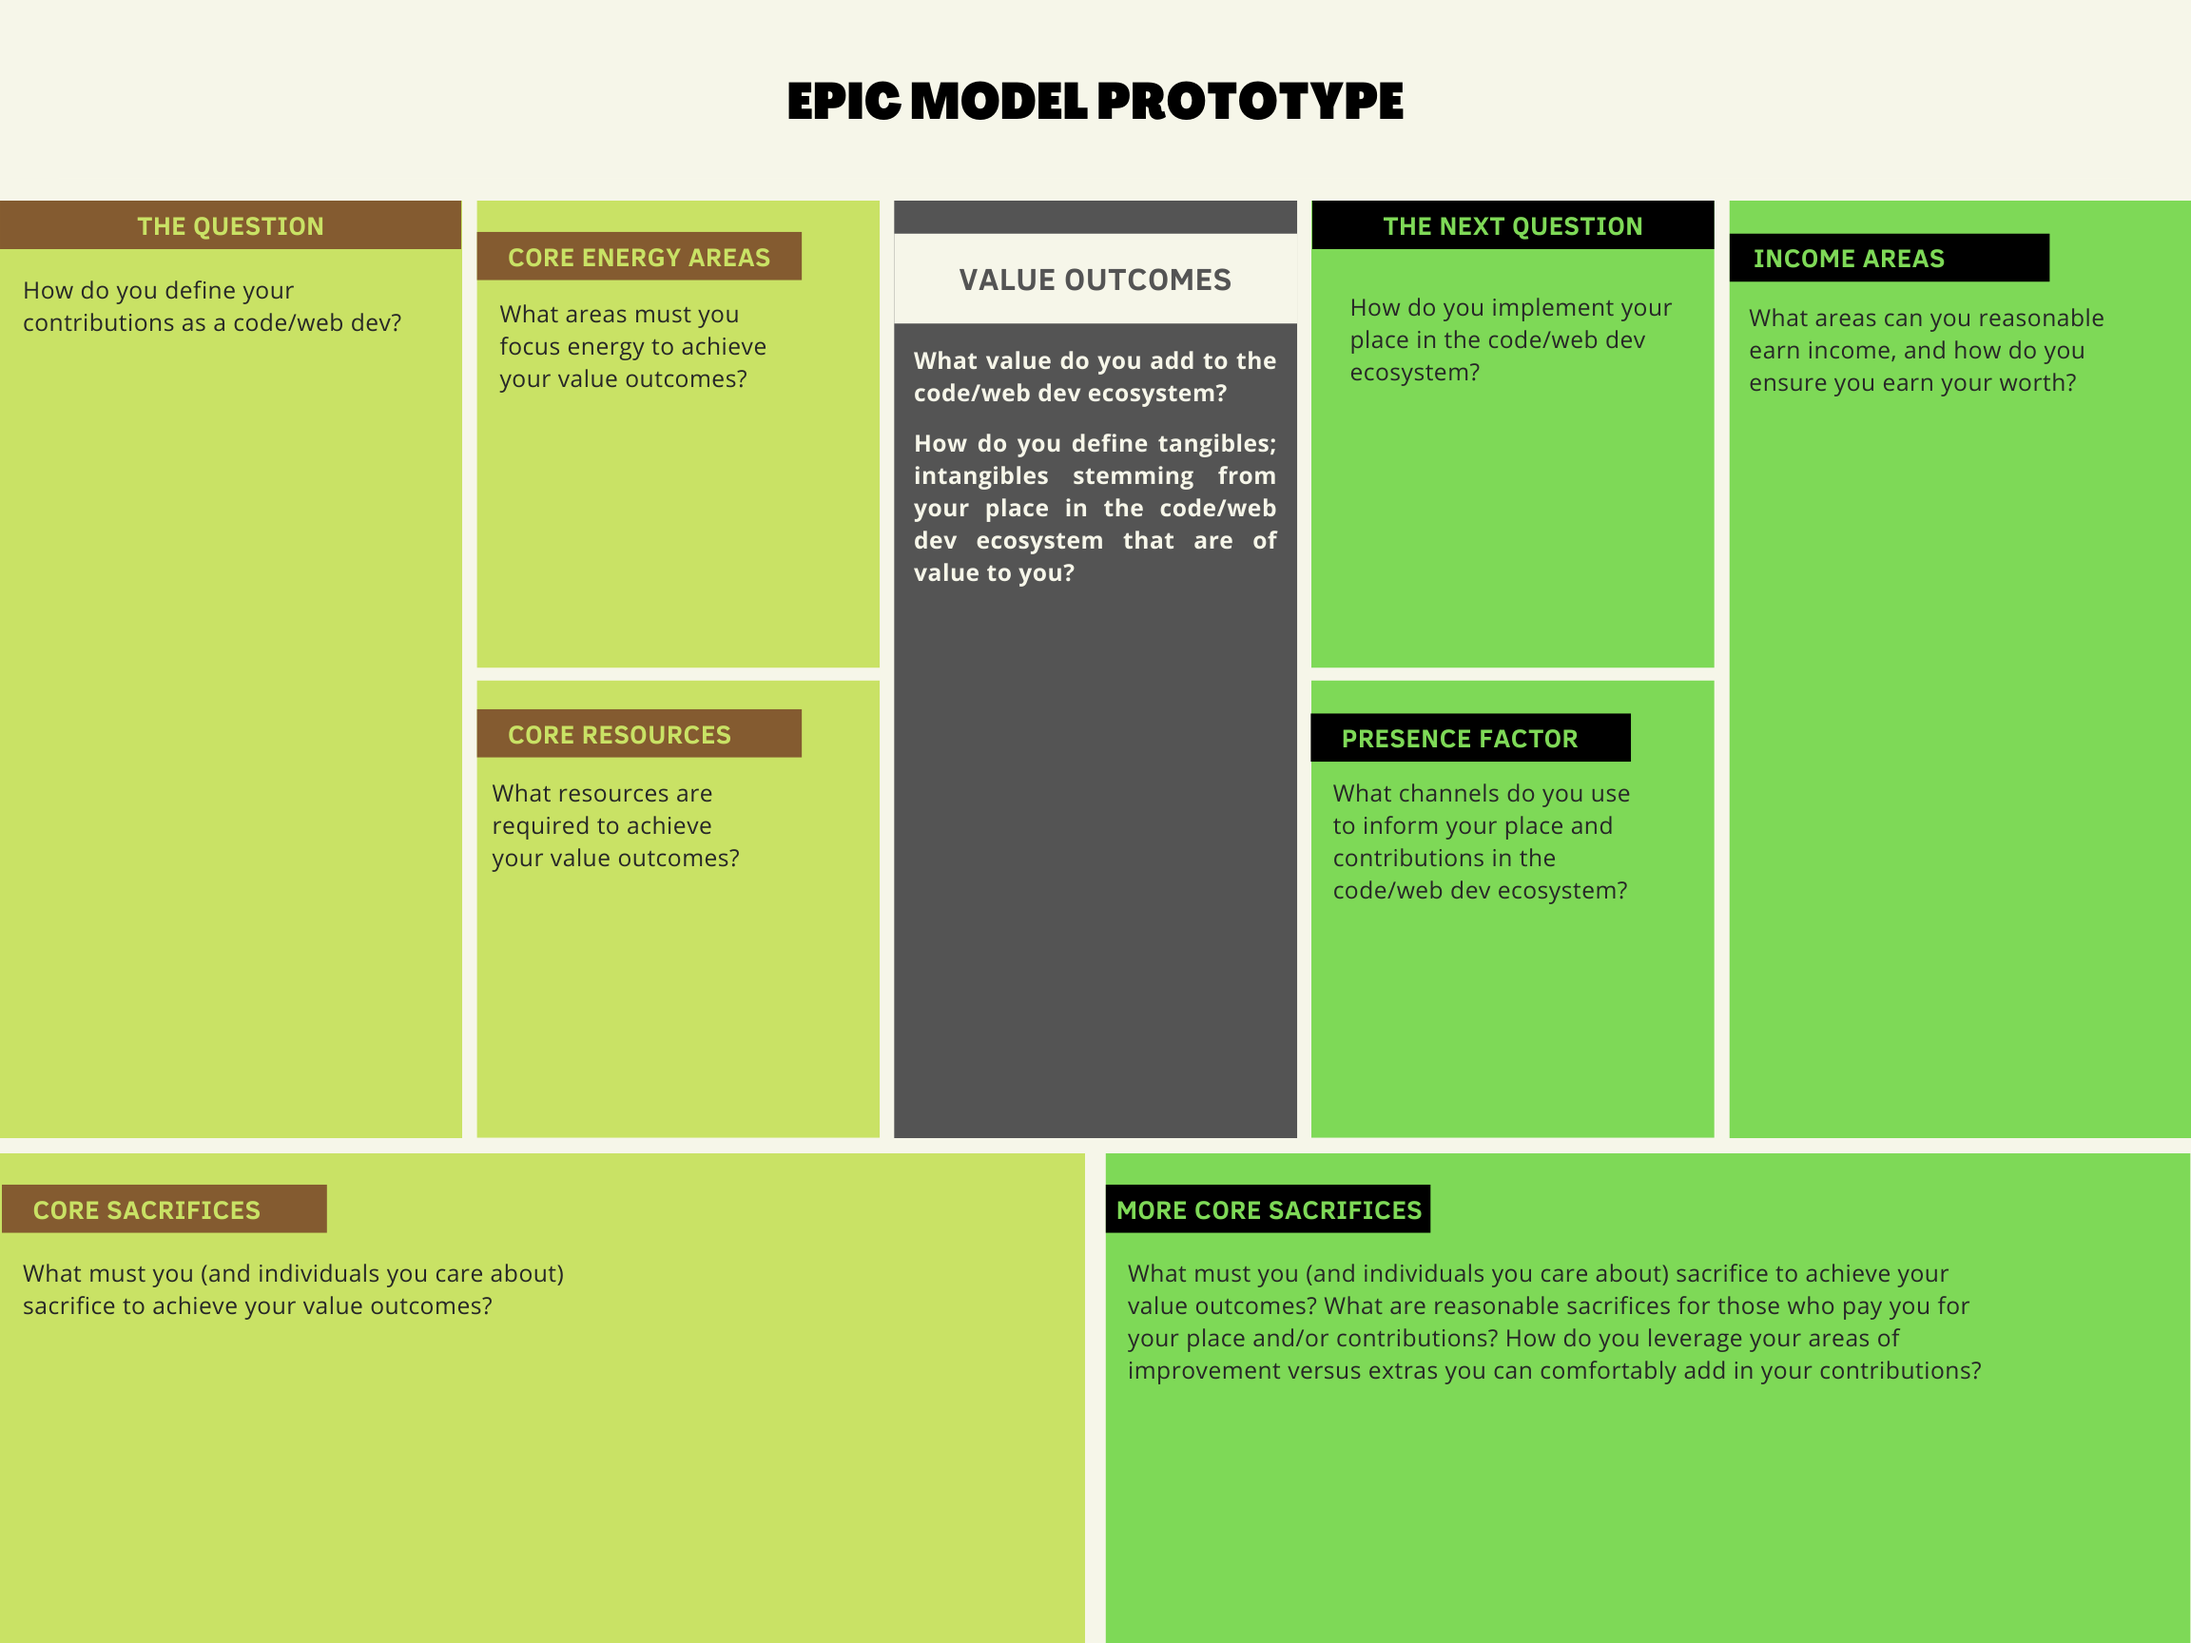
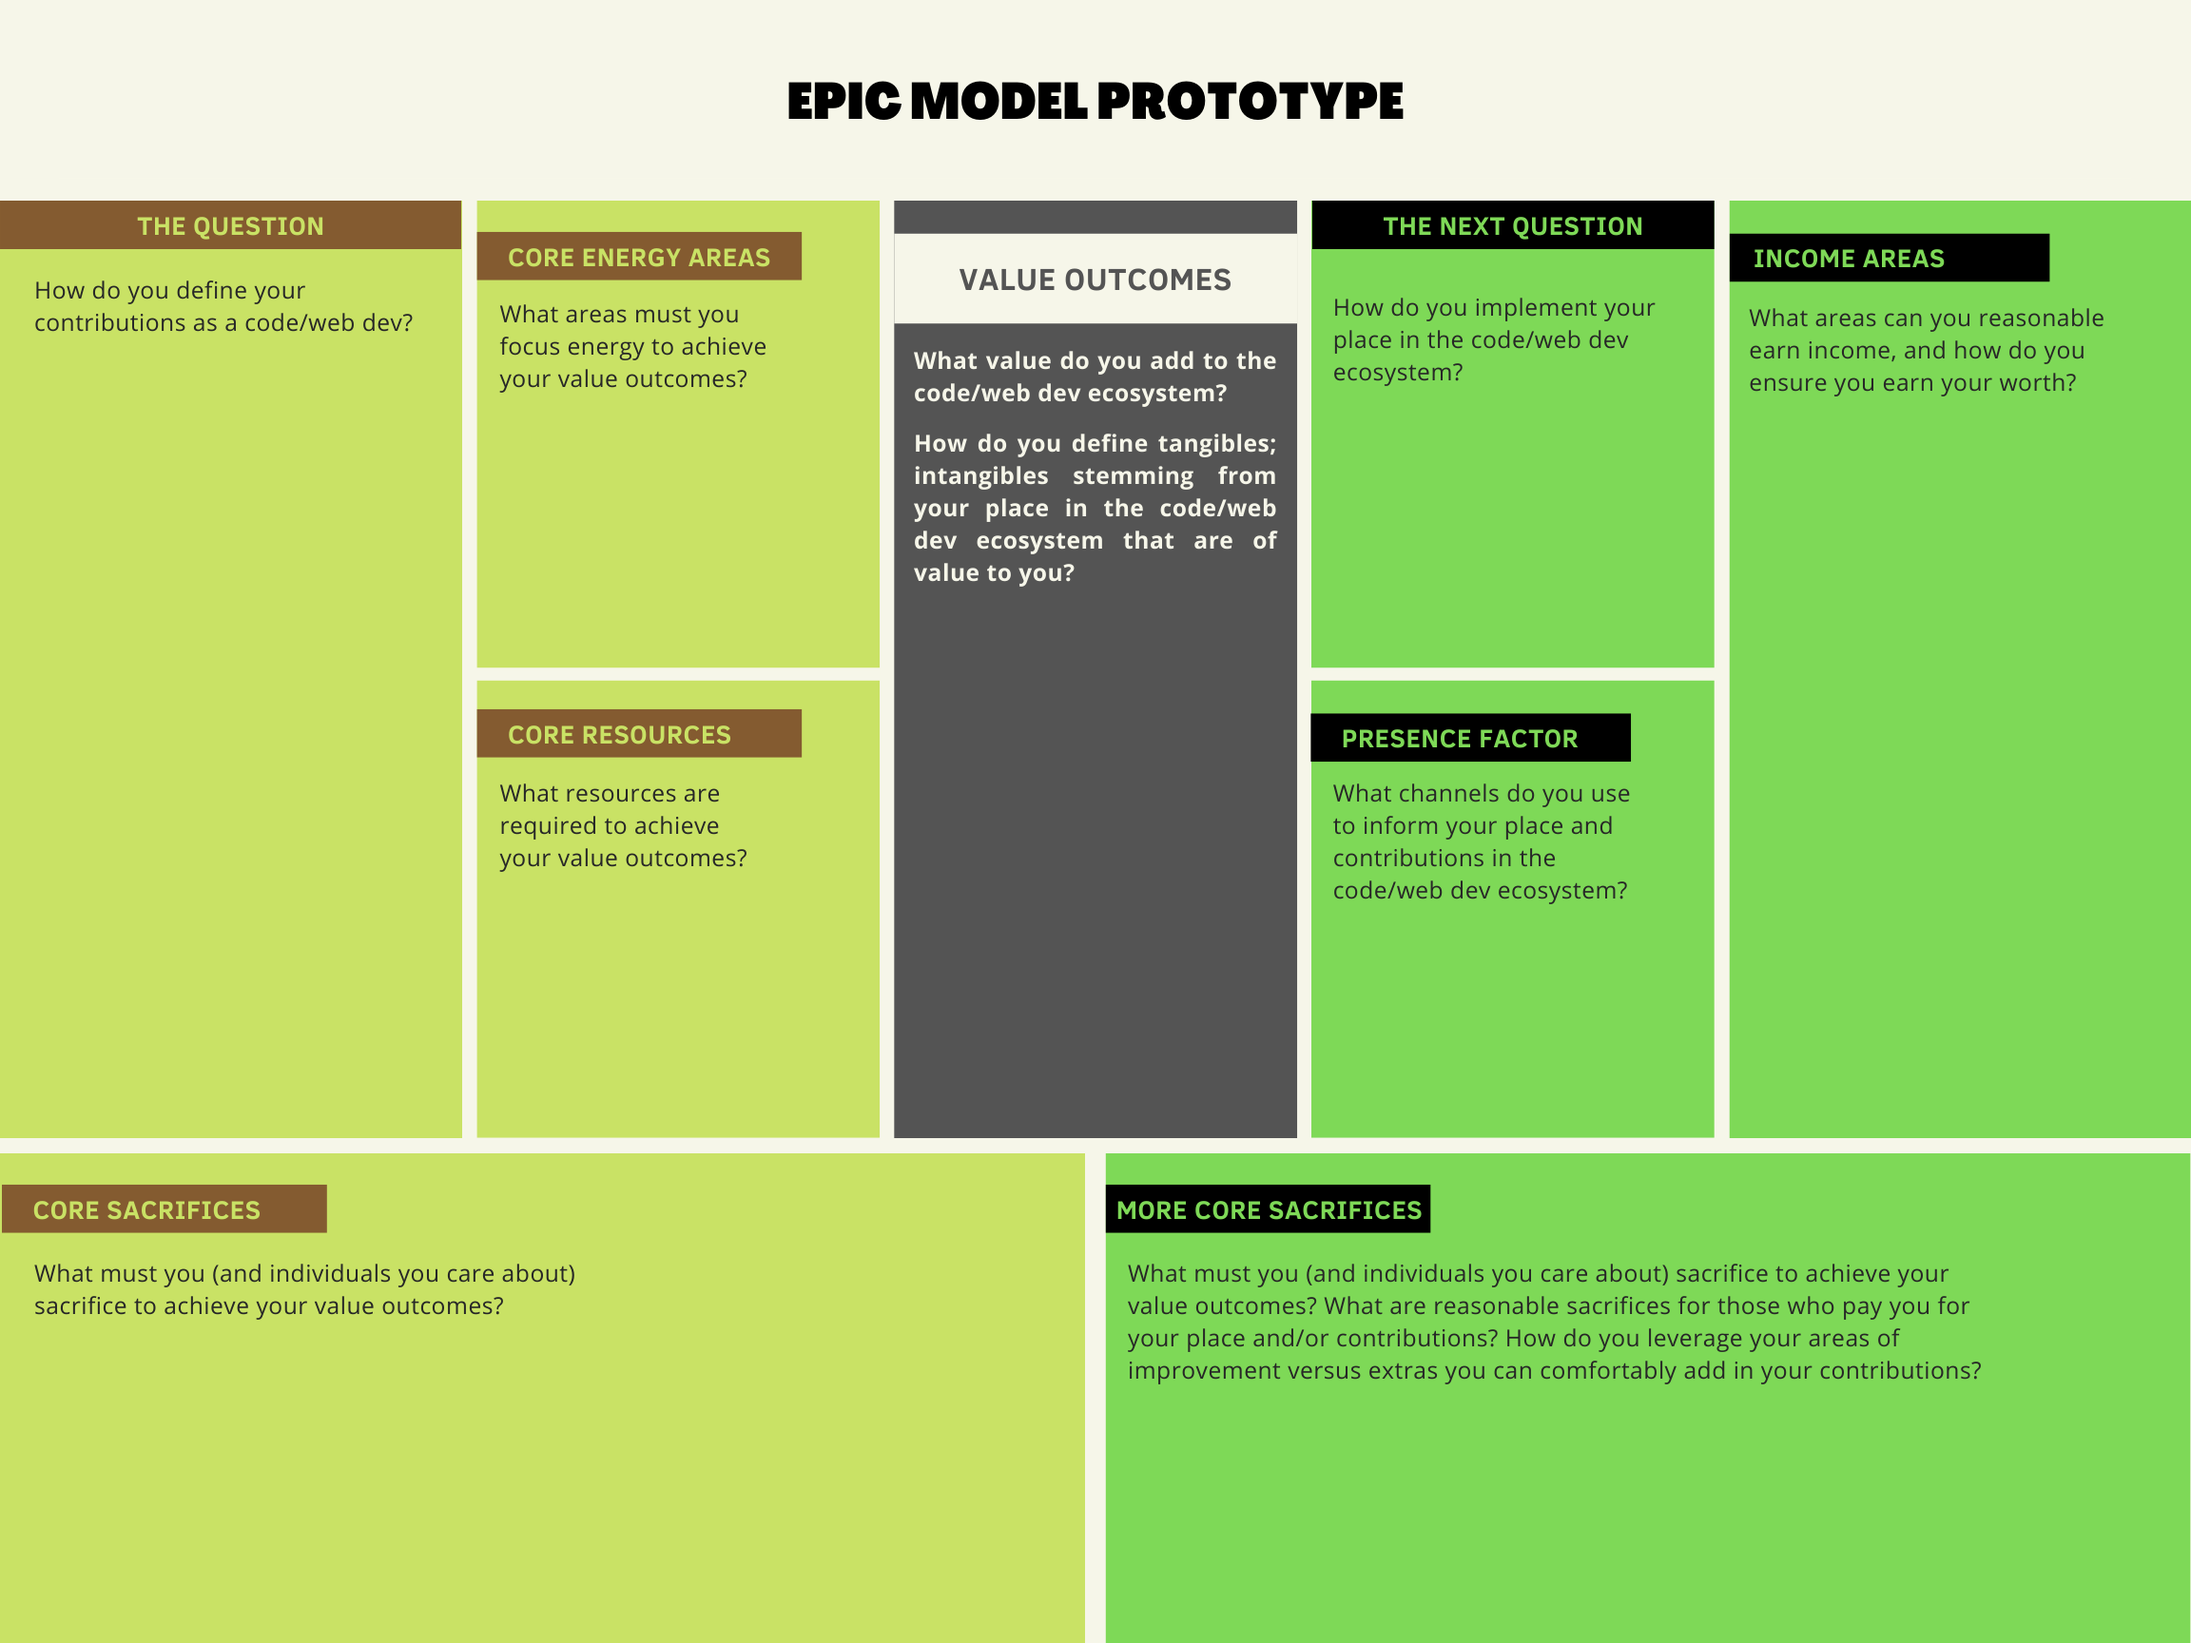
code clean / added title attribute to api download and updated epic visual for text space

diff --git a/src/api/Api.jsx b/src/api/Api.jsx
@@ -19,7 +19,7 @@ const Api = ({ openModal, onClose }) => {
         <Box sx={style} className="apiCard">
           <Button onClick={onClose}>&#x274C;</Button>
           <div>
-            <a href={API} download>
+            <a href={API} download title="click to download">
               <img src={API} alt="API Resource" width="103%" height="auto" />
             </a>
           </div>
